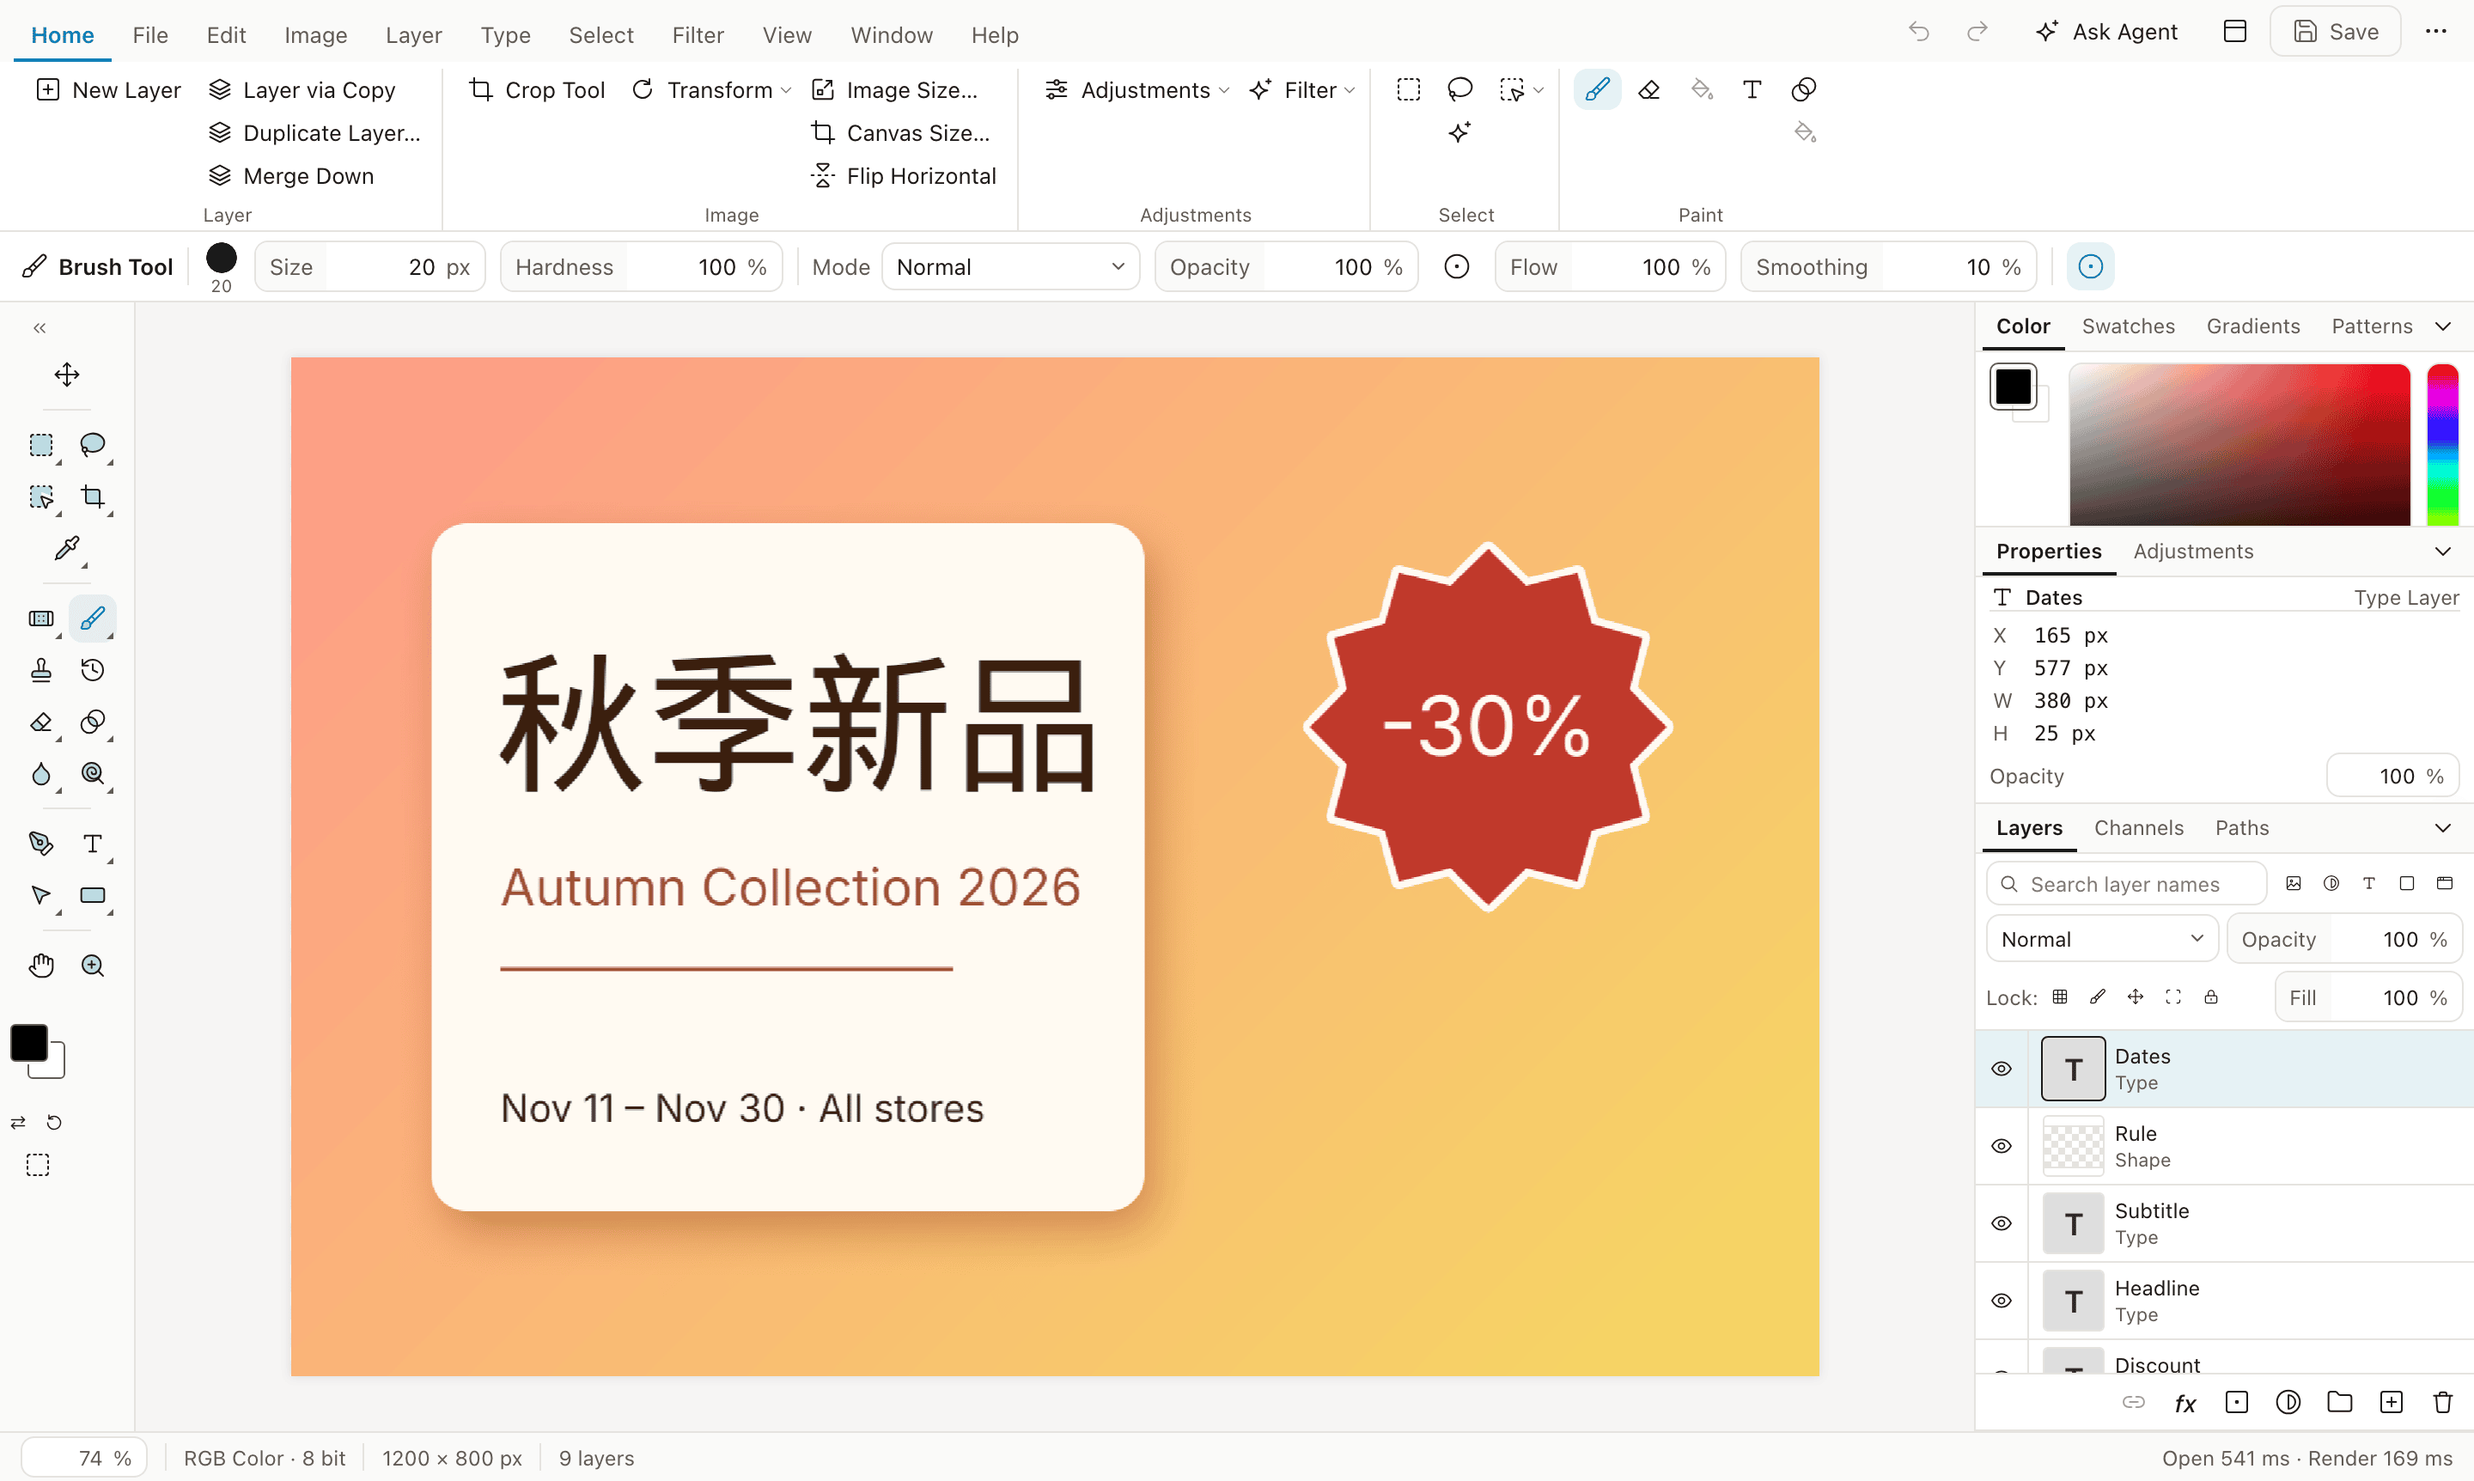
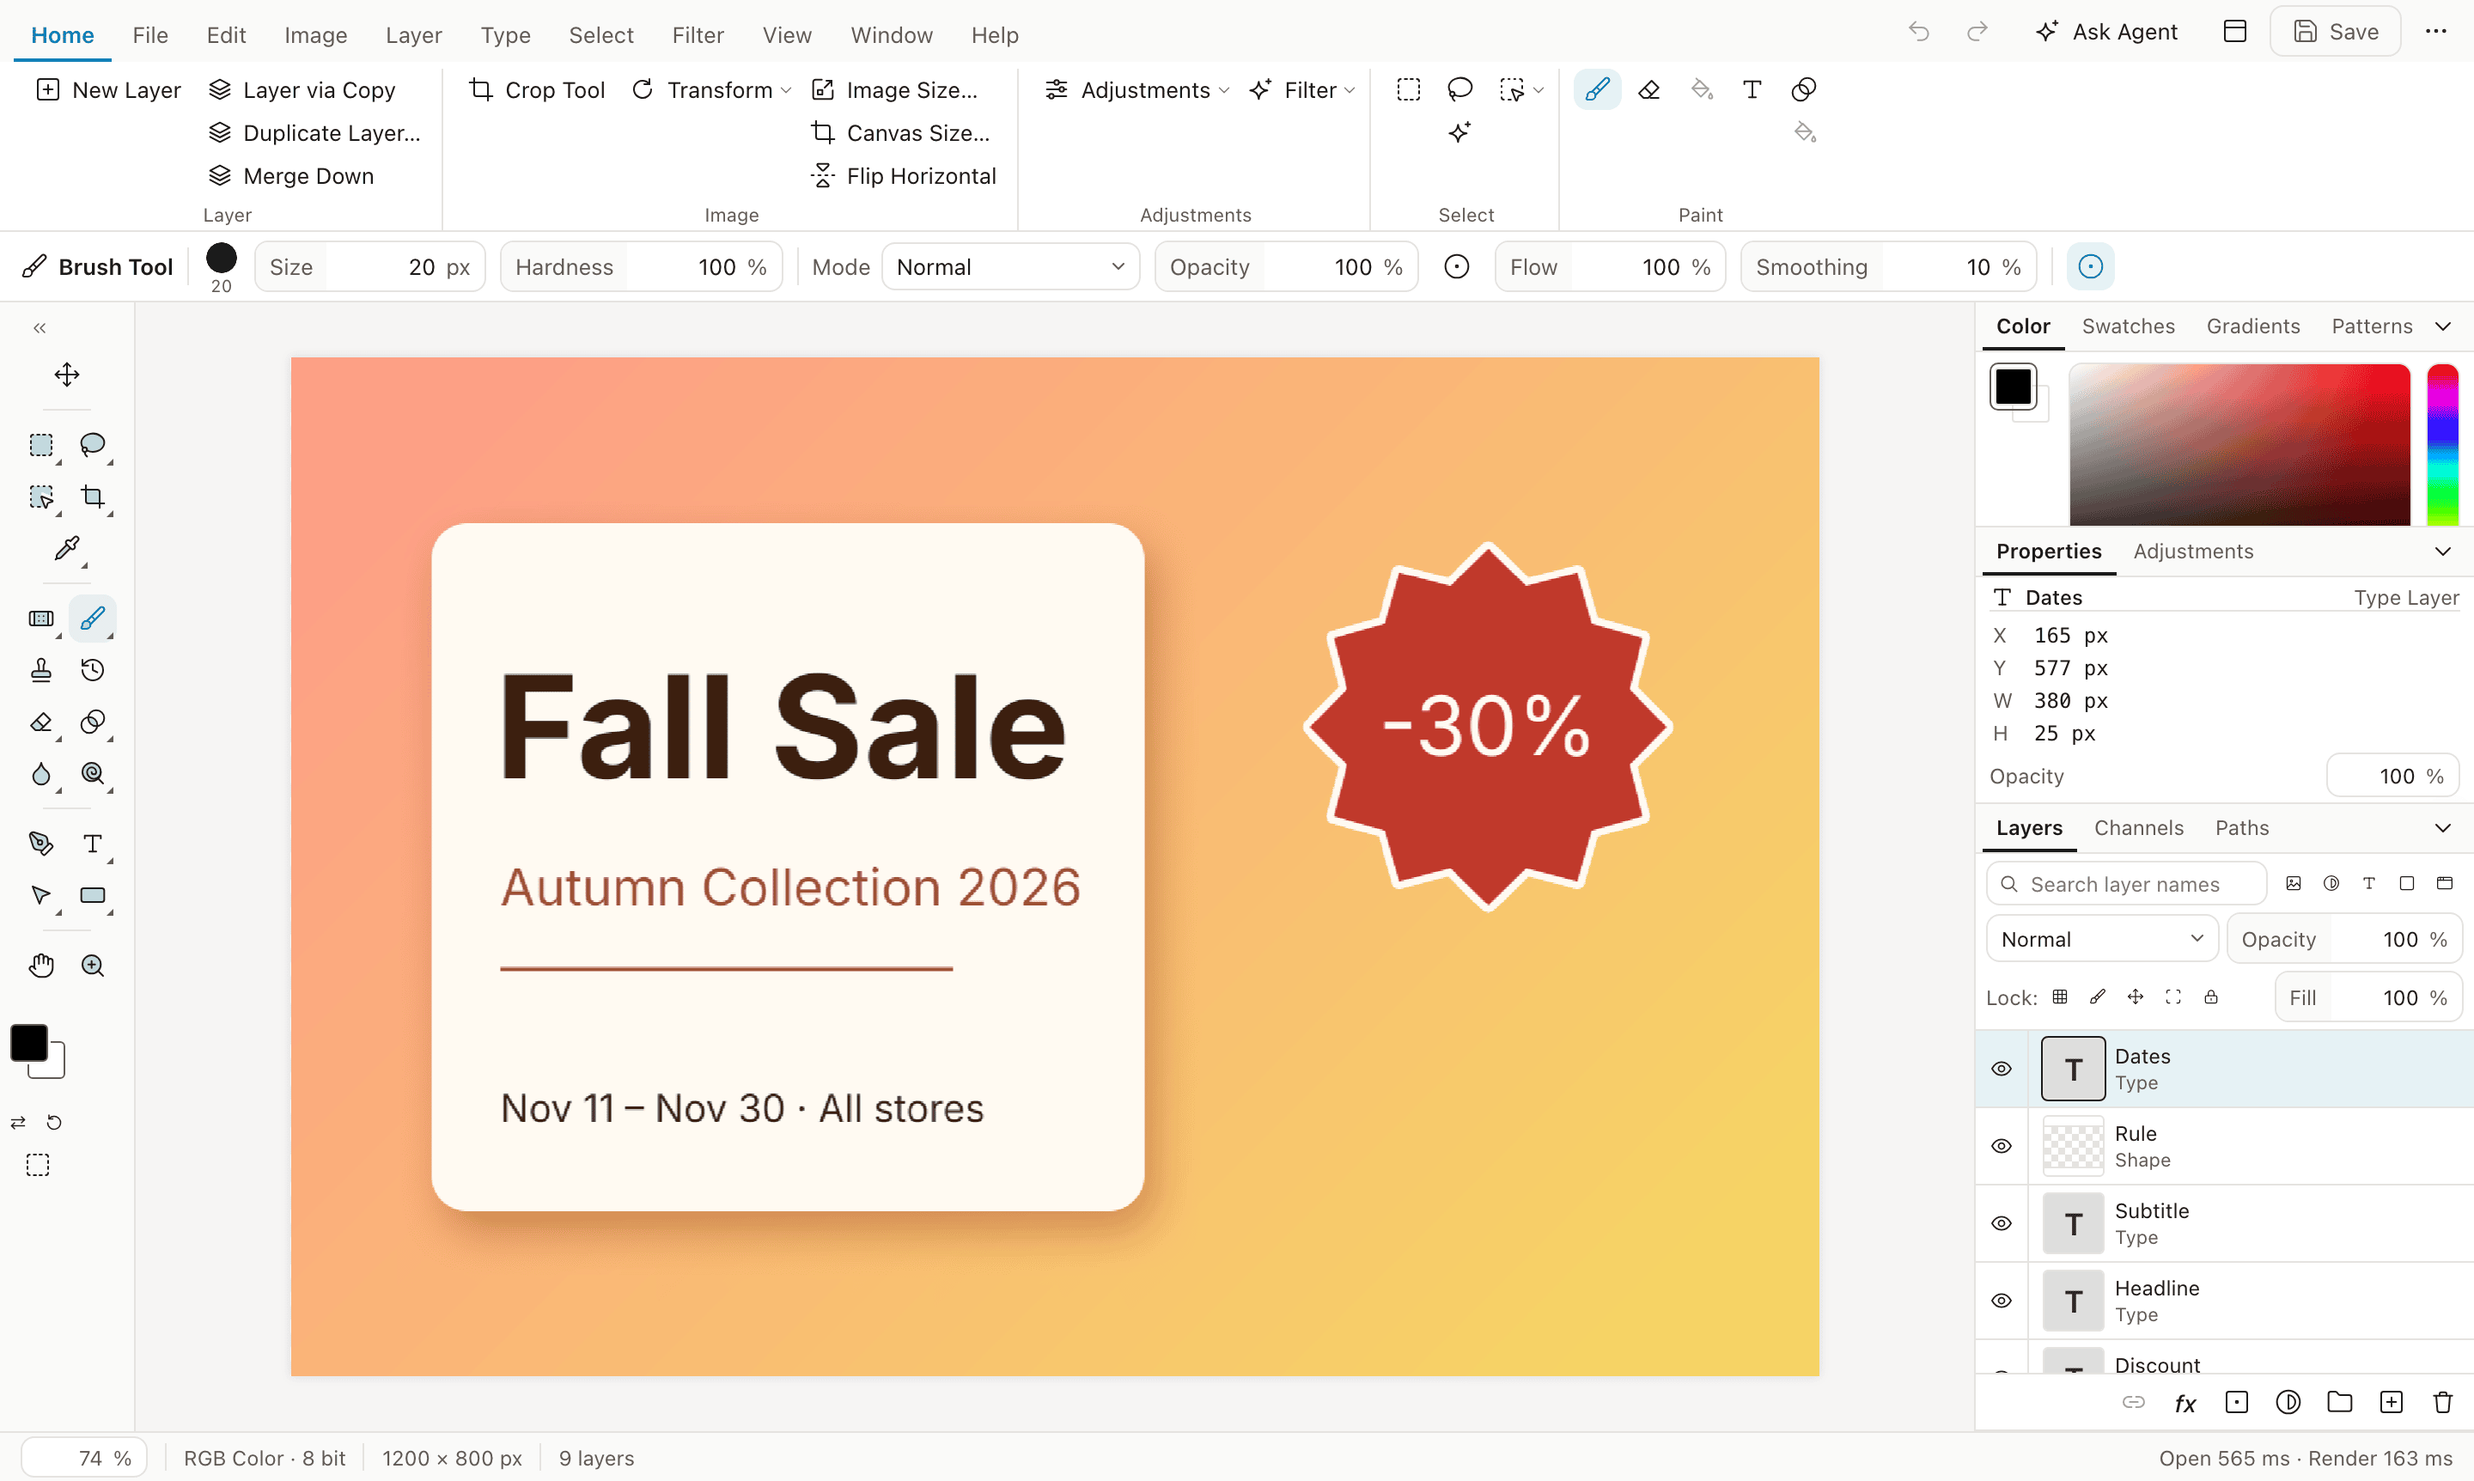
README: English-only pictures
Retook hero and see-1 to see-4 on the showcase poster, now headlined
"Fall Sale", and replaced the agent session's font note with the one
photo_check reports on it.

Task: English-only README pictures. Cases: none (README and pictures only).

diff --git a/README.md b/README.md
@@ -25,7 +25,7 @@ an options bar and Layers, Properties and Adjustments panels, and save back to `
 works on the same file through the same engine: it reads the layer stack, changes a layer by its
 name, and checks the result before it hands the file back to you.
 
-<img src="assets/readme/hero.png" alt="The Photo editor on an autumn sale poster: a gradient background, a cream card with Chinese and English type, a red star badge, and its type and shape layers in the Layers panel." width="100%" />
+<img src="assets/readme/hero.png" alt="The Photo editor on an autumn sale poster: a gradient background, a cream card with its type, a red star badge, and its type and shape layers in the Layers panel." width="100%" />
 
 ## What it does
 
@@ -53,7 +53,7 @@ name, and checks the result before it hands the file back to you.
 </tr>
 <tr>
 <td width="50%"><img src="assets/readme/see-3.png" alt="An elliptical selection on the star badge made into a layer mask: the badge is cut to a circle and the mask shows beside the layer." /><br /><b>Masks from selections</b>: draw a selection, add a mask, and the hidden pixels stay on the layer.</td>
-<td width="50%"><img src="assets/readme/see-4.png" alt="The Chinese headline with a new drop shadow, its font and size in the Character panel, and Drop Shadow listed under the layer." /><br /><b>Type and layer styles</b>: the headline stays text, with a drop shadow added from the Layers panel.</td>
+<td width="50%"><img src="assets/readme/see-4.png" alt="The Fall Sale headline with a new drop shadow, its font and size in the Character panel, and Drop Shadow listed under the layer." /><br /><b>Type and layer styles</b>: the headline stays text, with a drop shadow added from the Layers panel.</td>
 </tr>
 </table>
 
@@ -151,13 +151,13 @@ Ran 2 commands on `poster.psd` (saved): 1200 x 800 px, Rgb, 8-bit, 9 layers Chan
 
 > photo_check {"path":"poster.psd"}
 Checked `poster.psd`: no errors, no warnings, 1 note.
-  photo.font-substituted (info) layer:6: Type layer "Headline" has characters that no available
-  font can draw: "品" (U+54C1), "季" (U+5B63), "新" (U+65B0), "秋" (U+79CB), so they are drawn as a box. […]
+  photo.font-substituted (info) layer:6: Type layer "Headline" asks for Inter at weight 700, which
+  no font here has, so it is drawn at weight 600. […]
 ```
 
 The layer lines and the note are trimmed from the JSON the tools answer. The note comes from a build
 without fonts: build with `KITION_FONTS_DIR` ([docs/development.md](docs/development.md#fonts))
-and the headless program draws CJK type as the editor does. The agent's guide is
+and the headless program draws every weight of Inter as the editor does. The agent's guide is
 [agent/guide.md](agent/guide.md).
 
 ## Maturity
